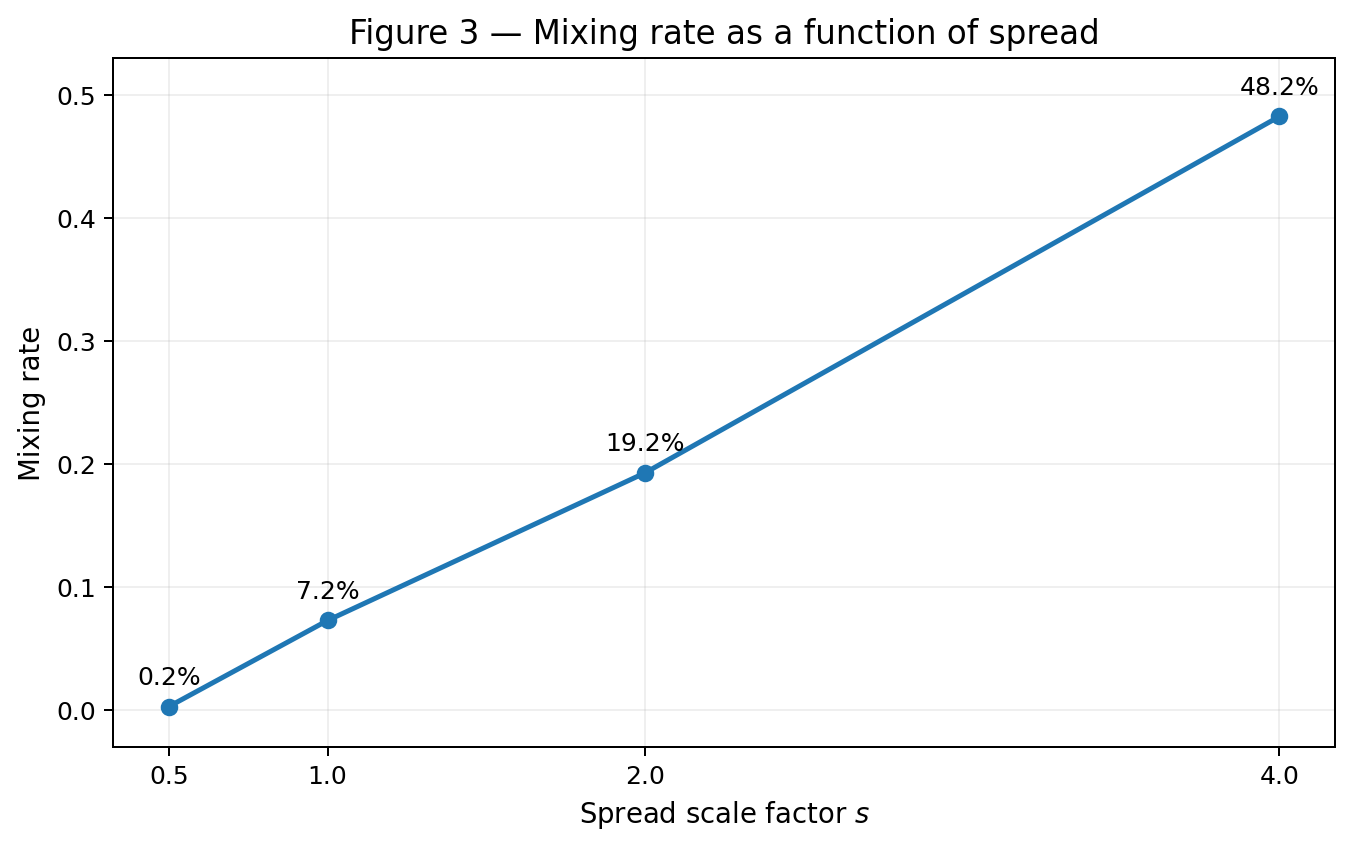
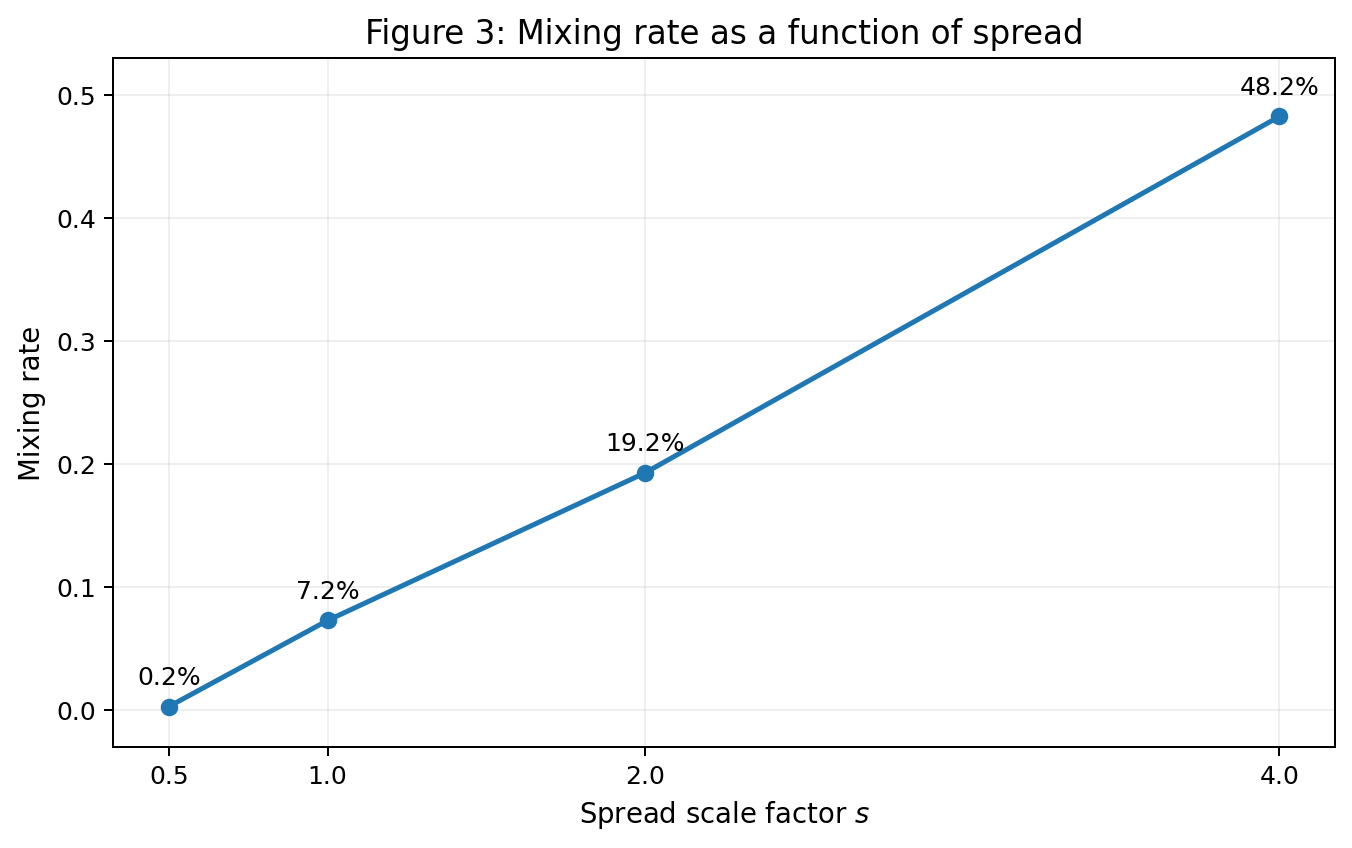
ex(data): updating the exercise to better descriptions

Changed region(s): [[0.2485, 0.0, 0.8077, 0.0613]]

diff --git a/docs/stylesheets/extra.css b/docs/stylesheets/extra.css
@@ -1,3 +1,6 @@
+/* =========================================================
+   Existing home page styles (kept as-is)
+   ========================================================= */
 .home-grid {
   display: grid;
   grid-template-columns: repeat(2, minmax(0, 1fr));
@@ -25,9 +28,144 @@ a[rel="prev"], a[rel="next"] {
         display: flex !important;
         width: 100%;
     }
-    
+
     .navbar-collapse > ul.navbar-nav:last-of-type,
     .navbar-collapse .navbar-right {
         margin-left: auto !important;
     }
+}
+
+/* =========================================================
+   Markdown tables — this is the fix for tables not rendering
+   with any visible styling. The Bootswatch/Bootstrap CSS only
+   styles <table class="table">, but MkDocs' Markdown table
+   extension outputs plain <table> with no class. We style any
+   table generated inside the article body directly.
+   ========================================================= */
+article table,
+.md-content table {
+  width: 100%;
+  margin: 1.5rem 0;
+  border-collapse: collapse;
+  font-size: 0.95rem;
+}
+
+article table th,
+article table td,
+.md-content table th,
+.md-content table td {
+  border: 1px solid #dee2e6;
+  padding: 0.55rem 0.85rem;
+  text-align: left;
+  vertical-align: top;
+}
+
+article table thead th,
+.md-content table thead th {
+  background-color: #f8f2ea;
+  border-bottom: 2px solid #d9534f;
+  font-weight: 600;
+  color: #212529;
+}
+
+article table tbody tr:nth-child(even),
+.md-content table tbody tr:nth-child(even) {
+  background-color: #fbfaf8;
+}
+
+article table tbody tr:hover,
+.md-content table tbody tr:hover {
+  background-color: #f5efe6;
+}
+
+/* Right-aligned numeric columns produced by markdown
+   ( |---: | syntax ) keep their alignment */
+article table td[align="right"],
+article table th[align="right"] {
+  text-align: right;
+}
+
+/* =========================================================
+   Overall look and feel — tuned to match the previous design:
+   warm off-white background, orange/red accent, clean sidebar
+   ========================================================= */
+:root {
+  --brand-accent: #d9534f;
+  --brand-accent-dark: #b52b27;
+}
+
+body {
+  background-color: #fdfcfb;
+  color: #212529;
+}
+
+/* Navbar accent */
+.navbar {
+  border-bottom: 3px solid var(--brand-accent);
+}
+
+.navbar-brand,
+.navbar-nav .nav-link.active {
+  font-weight: 600;
+}
+
+.navbar-nav .nav-link:hover {
+  color: var(--brand-accent) !important;
+}
+
+/* Headings */
+article h1,
+.md-content h1 {
+  color: #1a1a1a;
+  border-bottom: 1px solid #eee;
+  padding-bottom: 0.5rem;
+  margin-bottom: 1.25rem;
+}
+
+article h2,
+.md-content h2 {
+  margin-top: 2.25rem;
+}
+
+article h3,
+.md-content h3 {
+  color: #333;
+  margin-top: 1.75rem;
+}
+
+/* Body copy readability */
+article p,
+.md-content p {
+  line-height: 1.65;
+  max-width: 70ch;
+}
+
+/* Inline code and code blocks */
+article code,
+.md-content code {
+  background-color: #f4f0ea;
+  ;
+  padding: 0.1rem 0.35rem;
+  border-radius: 0.25rem;
+  font-size: 0.9em;
+}
+
+article pre code {
+  background-color: transparent;
+  color: inherit;
+  padding: 0;
+}
+
+article pre,
+.md-content pre {
+  background-color: #282c34;
+  border-radius: 0.5rem;
+  padding: 1rem;
+}
+
+/* Admonitions (!!! info, !!! warning, etc.) */
+.admonition {
+  border-left: 4px solid var(--brand-accent);
+  border-radius: 0.4rem;
+  background-color: #fbf7f2;
 }

diff --git a/docs/exercises/data/code/data_activity.py b/docs/exercises/data/code/data_activity.py
@@ -112,12 +112,12 @@ def exercise_1():
     for idx, (x, boundary) in enumerate(boundary_specs):
         ax.plot(
             x, boundary(x), "--", linewidth=1.8,
-            color="black", alpha=0.72,
+            color="black",
             label="illustrative decision boundaries" if idx == 0 else None,
             zorder=4,
         )
 
-    ax.set_title("Figure 1 — Original point clouds ($s = 1$)")
+    ax.set_title("Figure 1: Original point clouds ($s = 1$)")
     ax.set_xlabel("$x_1$")
     ax.set_ylabel("$x_2$")
     ax.set_xlim(-0.8, 17.0)
@@ -159,7 +159,7 @@ def exercise_1():
     for ax in axes[-1, :]:
         ax.set_xlabel("$x_1$")
     axes[0, 0].legend(title="Class", fontsize=8)
-    fig.suptitle("Figure 2 — Effect of increasing the spread", fontsize=15)
+    fig.suptitle("Figure 2: Effect of increasing the spread", fontsize=15)
     fig.savefig(FIG_DIR / "figure2.png", bbox_inches="tight")
     plt.close(fig)
 
@@ -181,7 +181,7 @@ def exercise_1():
             (row["s"], row["mixing_rate"]),
             xytext=(0, 9), textcoords="offset points", ha="center"
         )
-    ax.set_title("Figure 3 — Mixing rate as a function of spread")
+    ax.set_title("Figure 3: Mixing rate as a function of spread")
     ax.set_xlabel("Spread scale factor $s$")
     ax.set_ylabel("Mixing rate")
     ax.set_xticks(SCALES)
@@ -261,14 +261,14 @@ def exercise_2():
             s=15, alpha=0.5, label=f"Class {cls}"
         )
 
-    axes[0].set_title("Dataset I — shifted Gaussians")
-    axes[1].set_title("Dataset II — concentric shells")
+    axes[0].set_title("Dataset I: shifted Gaussians")
+    axes[1].set_title("Dataset II: concentric shells")
     for ax in axes:
         ax.set_xlabel("PC1")
         ax.set_ylabel("PC2")
         ax.legend(title="Class")
         ax.grid(alpha=0.18)
-    fig.suptitle("Figure 4 — PCA projections into two dimensions", fontsize=15)
+    fig.suptitle("Figure 4: PCA projections into two dimensions", fontsize=15)
     fig.savefig(FIG_DIR / "figure4.png", bbox_inches="tight")
     plt.close(fig)
 
@@ -292,7 +292,7 @@ def exercise_2():
         ax.set_ylabel("Count")
         ax.legend(title="Class")
         ax.grid(alpha=0.18)
-    fig.suptitle("Figure 5 — Radius distributions in 5D", fontsize=15)
+    fig.suptitle("Figure 5: Radius distributions in 5D", fontsize=15)
     fig.savefig(FIG_DIR / "figure5.png", bbox_inches="tight")
     plt.close(fig)
 
@@ -432,7 +432,7 @@ def run_exercise_3(train_path=None):
     axes[1].set_ylabel("Count")
     for ax in axes:
         ax.grid(alpha=0.2)
-    fig.suptitle("Figure 6 — Effect of the log transformation", fontsize=15)
+    fig.suptitle("Figure 6: Effect of the log transformation", fontsize=15)
     fig.savefig(FIG_DIR / "figure6.png", bbox_inches="tight")
     plt.close(fig)
 

diff --git a/docs/exercises/data/index.md b/docs/exercises/data/index.md
@@ -1,4 +1,4 @@
-# 01 · Data
+<h1>01 · Data</h1>
 
 *Artificial Neural Networks and Deep Learning · Insper · 2026.2*
 
@@ -8,26 +8,26 @@ This report studies how the geometry, spread, dimensionality, and preprocessing 
     The entire activity uses one random-number generator, initialized exactly once with `rng = np.random.default_rng(42)`. The same `rng` instance is reused throughout the report. The complete implementation is available in [`data_activity.py`](code/data_activity.py).
 
 
-## 1 Point Clouds: Geometry and Spread in 2D
+<h2>1 Point Clouds: Geometry and Spread in 2D</h2>
 
 Understanding how data is distributed is the first step before designing a network architecture. In this exercise the idea is to generate and measure two-dimensional point clouds, observing how the distribution affects the complexity of the decision boundaries a neural network would need to learn.
 
-### 1.A Generate the Clouds
+<h3>1.a Generate the Clouds</h3>
 
 Four Gaussian synthetic point clouds were generated in two dimensions, with 100 samples per class. The means and standard deviations follow the given configuration:
 
 | Class | Mean | Standard deviation |
-|-------|------|--------------------|
+|---|---|---|
 | 0 | (2, 3) | (0.8, 2.5) |
 | 1 | (5, 6) | (1.2, 1.9) |
 | 2 | (8, 1) | (0.9, 0.9) |
 | 3 | (15, 4) | (0.5, 2.0) |
 
-The points are generated independently for each coordinate according to the corresponding Gaussian distribution. The markers in Figure 1 represent the specified class means rather than sample means.
+The points are generated independently for each coordinate according to the corresponding Gaussian distribution. With that definition, the following plot can be presented with the generated points, segregated by their classes:
 
-![Figure 1 — Original point clouds with class centers and sketched boundaries](assets/figures/figure1.png)
+![Figure 1: Original point clouds with class centers and sketched boundaries](assets/figures/figure1.png)
 
-**Figure 1 — Original point clouds ($s=1$).** The `X` markers indicate the class centers. The dashed curves are only a qualitative sketch of possible nonlinear decision boundaries; no classifier was trained for this figure.
+On Figure 1, the `X` markers indicate the class centers. The dashed curves are only a qualitative sketch of possible nonlinear decision boundaries; no classifier was trained for this figure.
 
 The implementation used for the four classes is:
 
@@ -42,19 +42,19 @@ for k, (mu, sigma) in enumerate(zip(MEANS, STDS)):
     )
 ```
 
-### B — More or less spread out
+### 1.b More or less spread out
 
-To isolate the effect of dispersion, the same four class means were kept fixed while every standard deviation was multiplied by a scale factor
+To isolate the effect of dispersion, the same four class means were kept fixed while every standard deviation was multiplied by a scale factor. This way, the menas never change, but the standard deviation does, changing how spread each cloud will be around it's center. The values for the scale factors are:
 
-$$
- s \in \{0.5,\ 1.0,\ 2.0,\ 4.0\}.
-$$
+<p style="display: flex; align-items: center; justify-content: center; font-size: 1.2rem; gap: 0.3rem;">
+  <var>s</var> &isin; {0.5, 1.0, 2.0, 4.0}
+</p>
 
 This creates four independent datasets, each containing the same four classes with 100 points per class.
 
-![Figure 2 — Effect of increasing the spread](assets/figures/figure2.png)
+![Figure 2: Effect of increasing the spread](assets/figures/figure2.png)
 
-**Figure 2 — Effect of increasing the spread.** All four subplots use the same axis limits, so the visual comparison reflects only the change in dispersion.
+All four subplots use the same axis limits, so the visual comparison reflects only the change in dispersion.
 
 For $s=1$, the separation ratio was calculated as
 

diff --git a/docs/exercises/data/code/README.md b/docs/exercises/data/code/README.md
@@ -23,5 +23,5 @@ Download it at: https://www.kaggle.com/competitions/spaceship-titanic/.
 With this, you can reproduce the results present in `docs/activities/data/code/output.txt` in your terminal. To save a new version of your local run into the document use:
 
 ```bash
-python3 docs/activities/data/code/data_activity.py > docs/activities/data/code/output.txt
+python3 docs/exercises/data/code/data_activity.py > docs/exercises/data/code/output.txt
 ```
